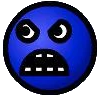
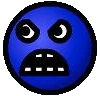
images more definition

diff --git a/levels/levels.js b/levels/levels.js
@@ -73,5 +73,16 @@ export default [{
   coins: [],
   width: 11,
 },
+{
+  id: 8,
+  url: './assets/levels/level8.png',
+  playerSpawn: {x:17,y:2},
+  checkpoints: [{x:4,y:5}],
+  enemies: 5,
+  enemySpawn: [{x:8,y:2,s:9},{x:16,y:7,s:2},{x:11,y:6,s:2},{x:3,y:7,s:2},{x:1,y:3,s:2}],
+  enemyPath: [[{x:8,y:2,s:9}],[{x:16,y:7,s:2}],[{x:11,y:6,s:2}],[{x:3,y:7,s:2}],[{x:1,y:3,s:2}]],
+  coins: [{x:1,y:1},{x:2,y:1}],
+  width: 20,
+},
 
 ];
